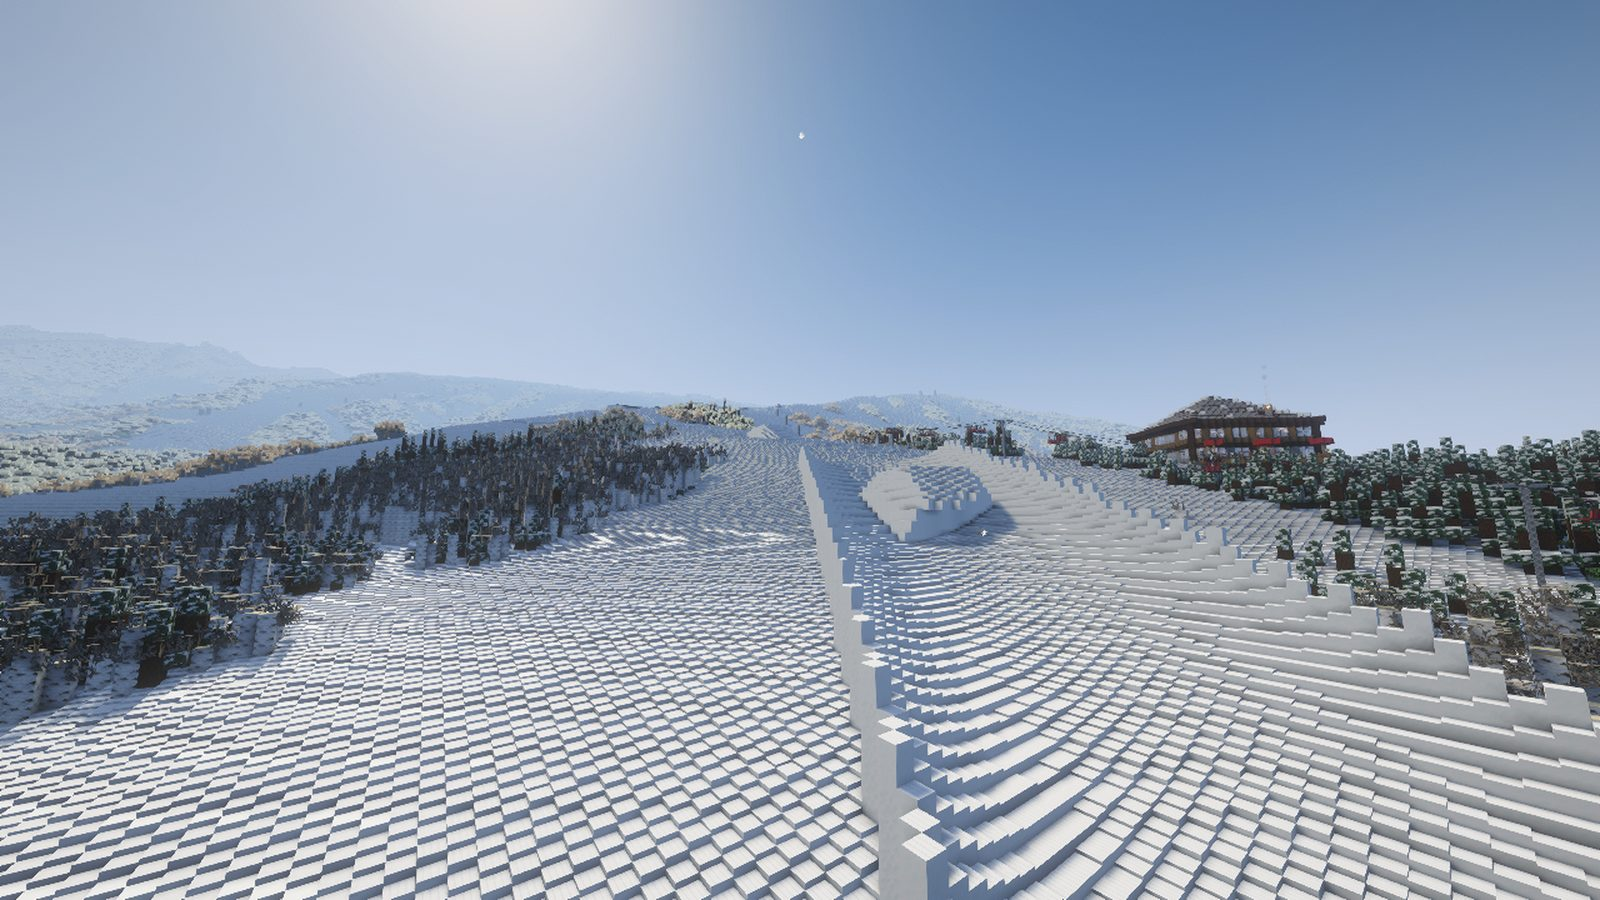
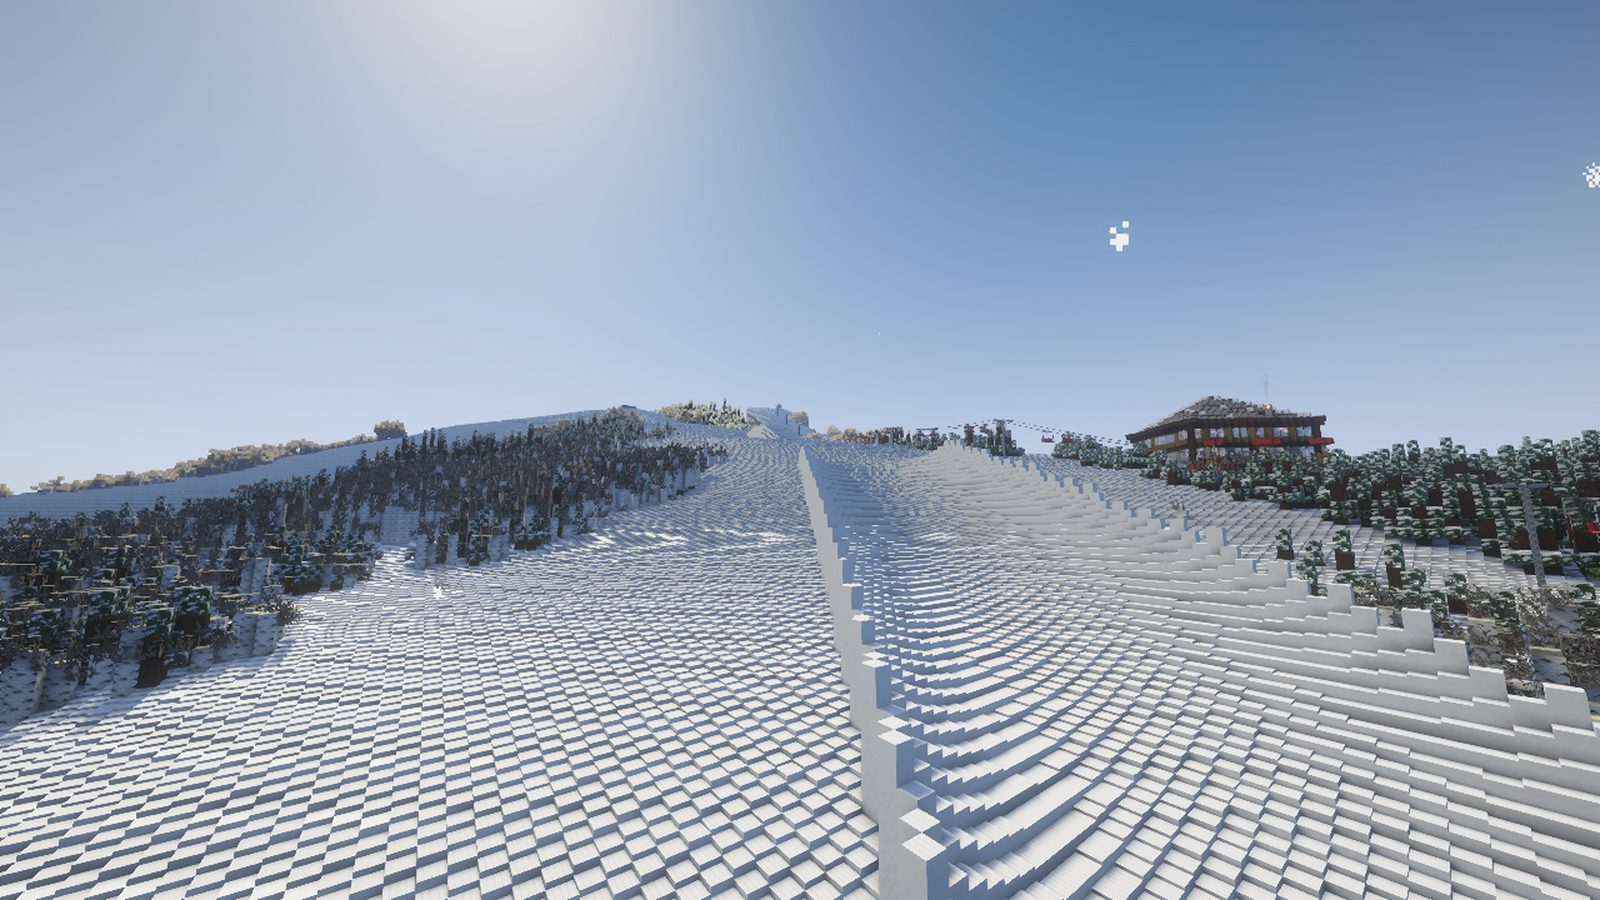
Server page: day on the mountain without the northern lights, park shown by its superpipe

diff --git a/docs/server.html b/docs/server.html
@@ -298,14 +298,14 @@
 <main>
 <section id="day"><div class="wrap">
   <div class="kicker reveal">A day on the mountain</div>
-  <h2 class="reveal">From first chair<br>to <em>northern lights.</em></h2>
+  <h2 class="reveal">From first chair<br>to <em>last call.</em></h2>
   <p class="sub reveal">Every screenshot here is the real server, taken in game with the optional shaders on. Scroll sideways through a day.</p>
   <div class="day" tabindex="0" aria-label="A day on the mountain, scroll sideways">
     <figure class="moment reveal"><img src="images/server-coney.jpg" alt="Red quad chairs climbing the Coney Express past a lodge, the slope and trees catching morning light" loading="lazy"><figcaption class="cap"><time>8:30 AM</time><h3>First chair</h3><p>Grab your skis or board from the starter kit and stand on LOAD HERE. The chairs scoop you up.</p></figcaption></figure>
     <figure class="moment reveal"><img src="images/server-gondola-view.jpg" alt="Looking down over Base Village's lodges and roads toward the snowy peaks of Snowmass" loading="lazy"><figcaption class="cap"><time>10:00 AM</time><h3>Gondola laps</h3><p>The Elk Camp Gondola floats over Base Village to the upper mountain. Pick a line from the top.</p></figcaption></figure>
-    <figure class="moment reveal"><img src="images/server-park.jpg" alt="A terrain park run lined with table-top jumps between snowy pines, a lodge on the ridge" loading="lazy"><figcaption class="cap"><time>1:00 PM</time><h3>Park session</h3><p>Table-top jumps that build from medium to big, rails and butters. Tricks score points and Ski Bucks.</p></figcaption></figure>
+    <figure class="moment reveal"><img src="images/server-park.jpg" alt="The Snowmass Park superpipe, its snow walls running down the hill between the pines, a lodge on the ridge" loading="lazy"><figcaption class="cap"><time>1:00 PM</time><h3>Park session</h3><p>A full superpipe, table-tops, hips, rails and boxes. Tricks score points and Ski Bucks.</p></figcaption></figure>
     <figure class="moment reveal"><img src="images/server-laps.jpg" alt="Wide groomed corduroy under a chairlift with towers stepping up the slope" loading="lazy"><figcaption class="cap"><time>3:30 PM</time><h3>Last laps</h3><p>Corduroy in the afternoon sun. Groomers get tracked up as everyone rides them.</p></figcaption></figure>
-    <figure class="moment reveal"><img src="images/server-plaza-night.jpg" alt="Base Village plaza at night under green aurora, the ice rink and fire pits glowing between the lodges" loading="lazy"><figcaption class="cap"><time>7:00 PM</time><h3>Après</h3><p>Fire pits, the ice rink and dinner in the village. On a clear night, look up.</p></figcaption></figure>
+    <figure class="moment reveal"><img src="images/server-plaza-night.jpg" alt="Base Village plaza at night under green aurora, the ice rink and fire pits glowing between the lodges" loading="lazy"><figcaption class="cap"><time>7:00 PM</time><h3>Après</h3><p>Fire pits, the ice rink and dinner in the village before the last lap of the night.</p></figcaption></figure>
   </div>
 </div></section>
 
